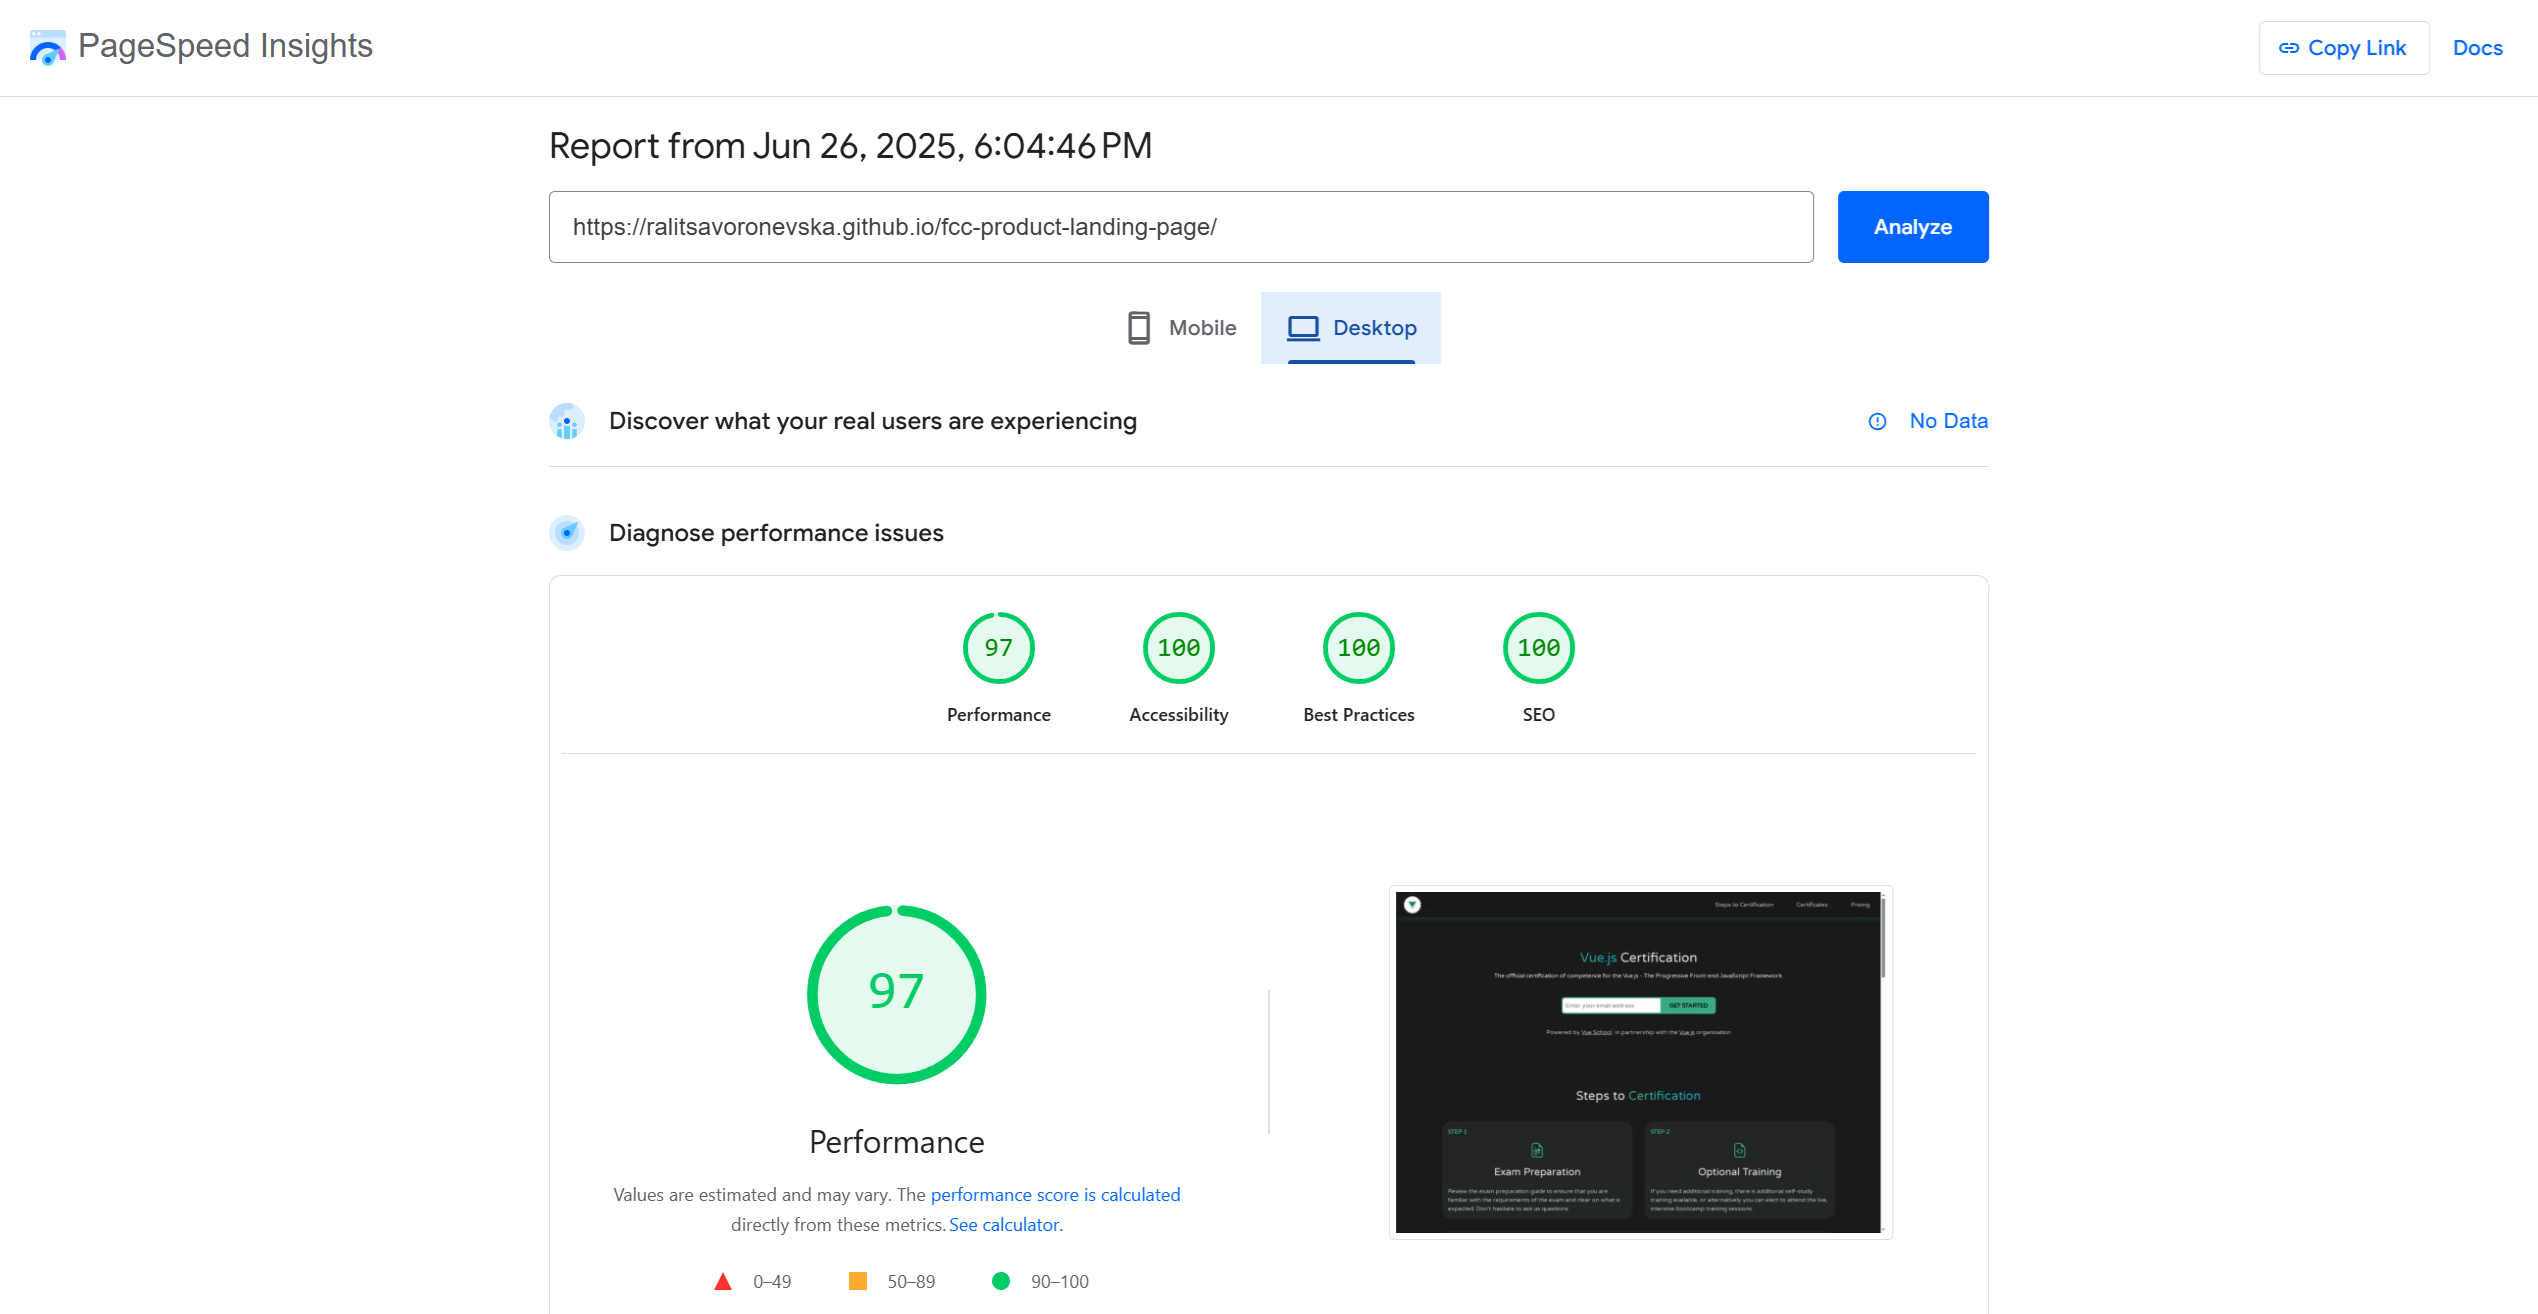
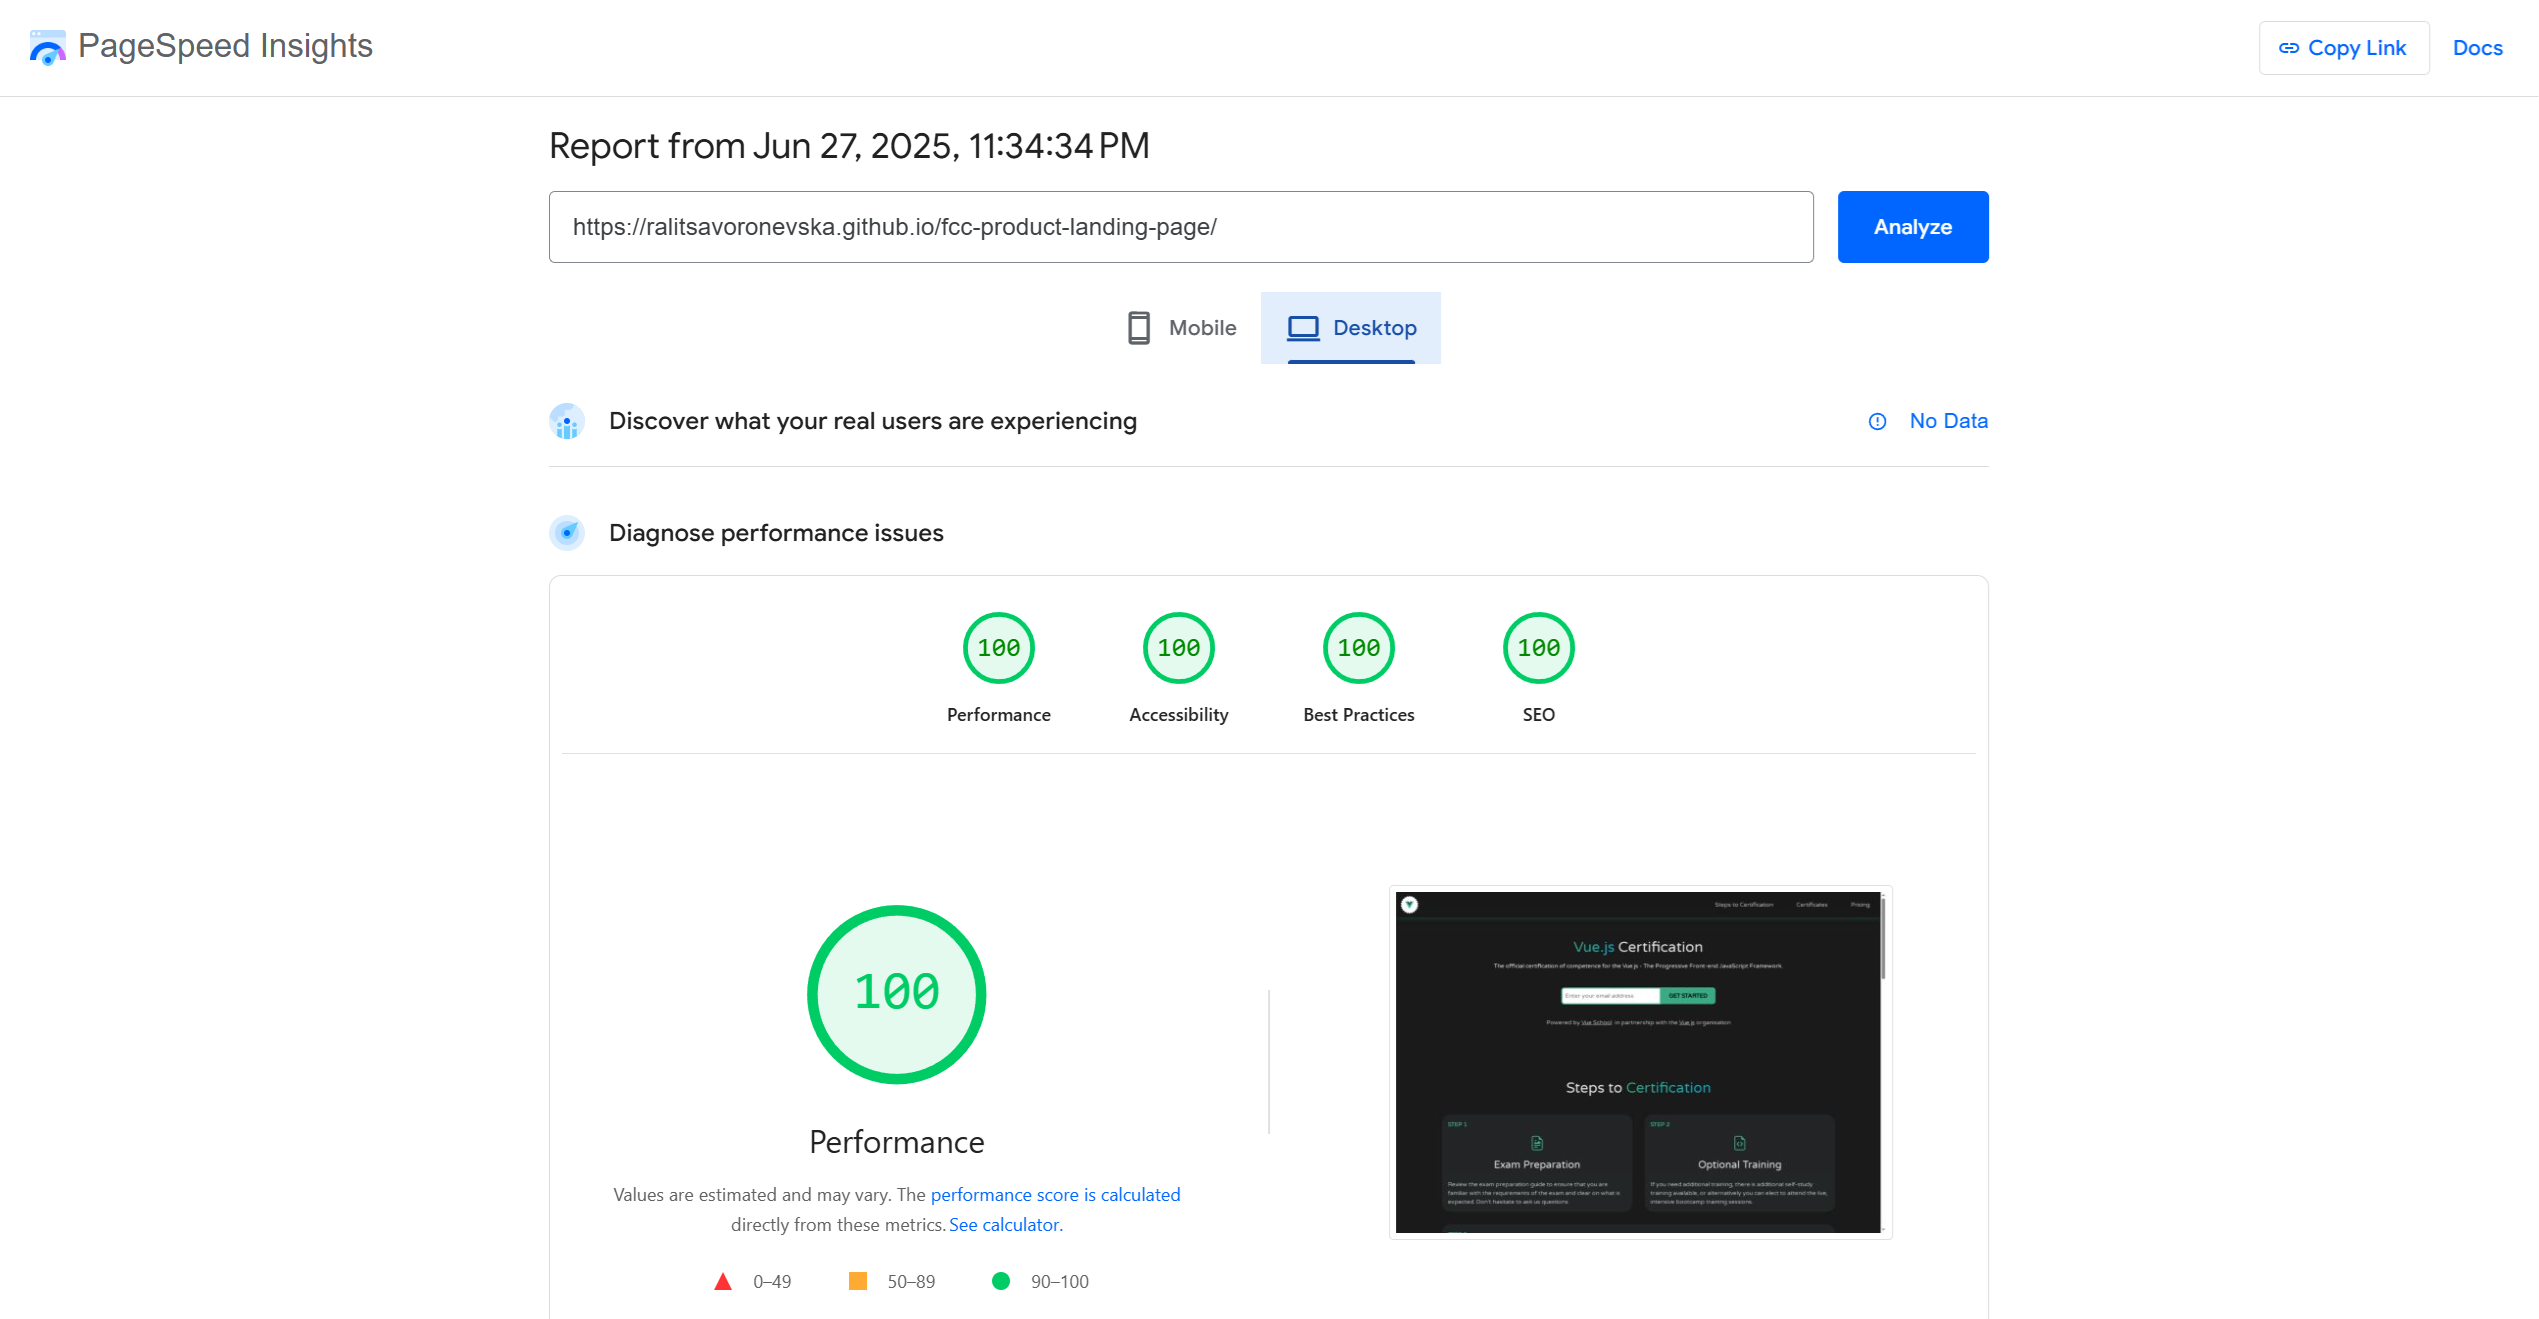
Updates

diff --git a/index.html b/index.html
@@ -127,6 +127,7 @@
                 height="300"
                 loading="lazy"
                 decoding="async"
+                src="https://vueschool.io/_ipx/f_webp&q_100&s_2400x1350/https://blog.vueschool.io/wp-content/uploads/2023/04/Certification-article-v2.jpg"
                 srcset="https://vueschool.io/_ipx/f_webp&q_100&s_600x300/https://blog.vueschool.io/wp-content/uploads/2023/04/Certification-article-v2.jpg 300w,
                   https://vueschool.io/_ipx/f_webp&q_100&s_300x200/https://blog.vueschool.io/wp-content/uploads/2023/04/Certification-article-v2.jpg 600w,
                   https://vueschool.io/_ipx/f_webp&q_100&s_600x300/https://blog.vueschool.io/wp-content/uploads/2023/04/Certification-article-v2.jpg 1200w"
@@ -141,6 +142,7 @@
                 height="300"
                 loading="lazy"
                 decoding="async"
+                src="https://vueschool.io/_ipx/f_webp&q_100&s_2400x1350/https://blog.vueschool.io/wp-content/uploads/2023/05/Vue.js-Certification-What-the-Community-Thinks.jpg"
                 srcset="https://vueschool.io/_ipx/f_webp&q_100&s_600x300/https://blog.vueschool.io/wp-content/uploads/2023/05/Vue.js-Certification-What-the-Community-Thinks.jpg 300w,
                   https://vueschool.io/_ipx/f_webp&q_100&s_300x200/https://blog.vueschool.io/wp-content/uploads/2023/05/Vue.js-Certification-What-the-Community-Thinks.jpg 600w,
                   https://vueschool.io/_ipx/f_webp&q_100&s_600x300/https://blog.vueschool.io/wp-content/uploads/2023/05/Vue.js-Certification-What-the-Community-Thinks.jpg 1200w"
